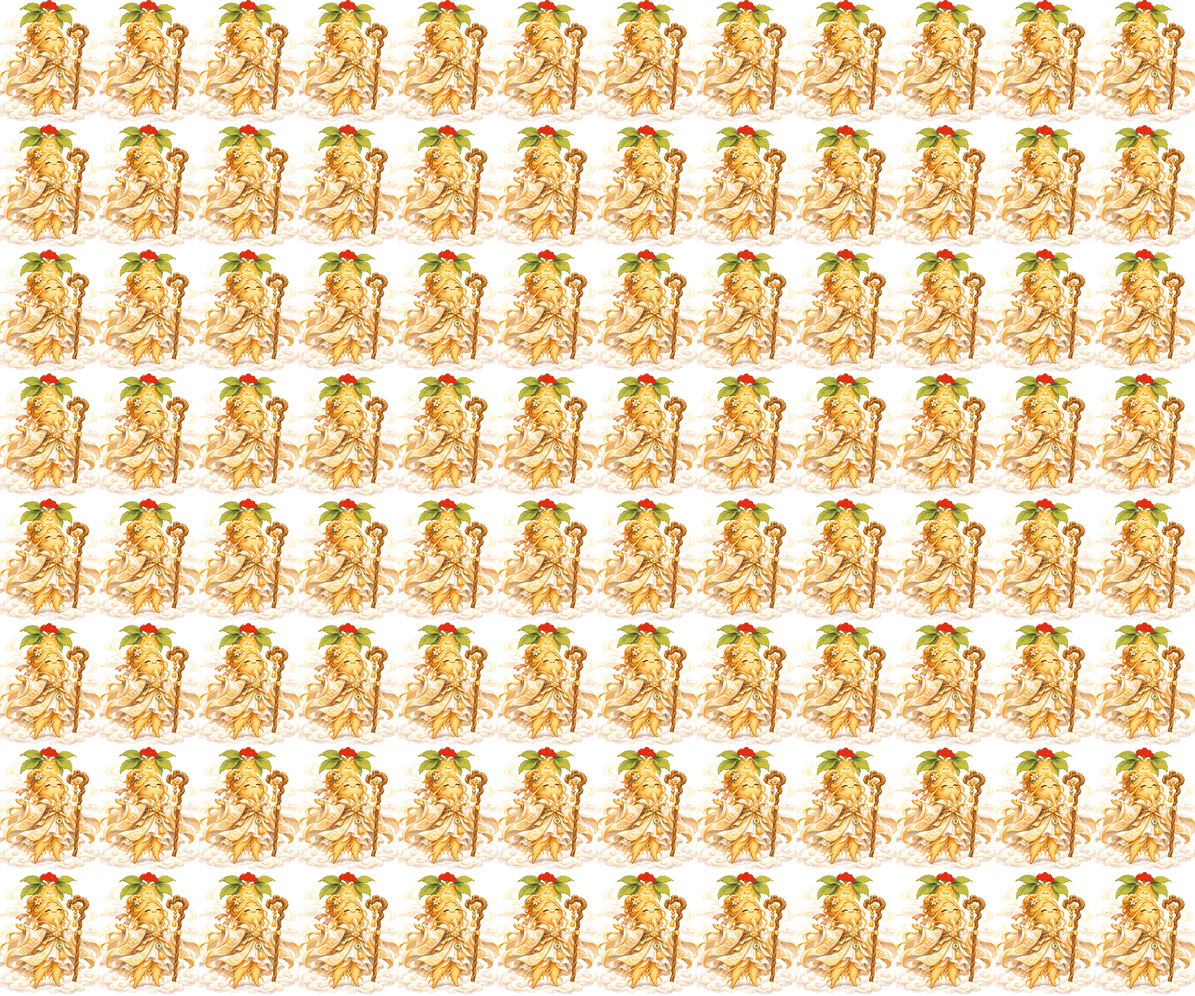
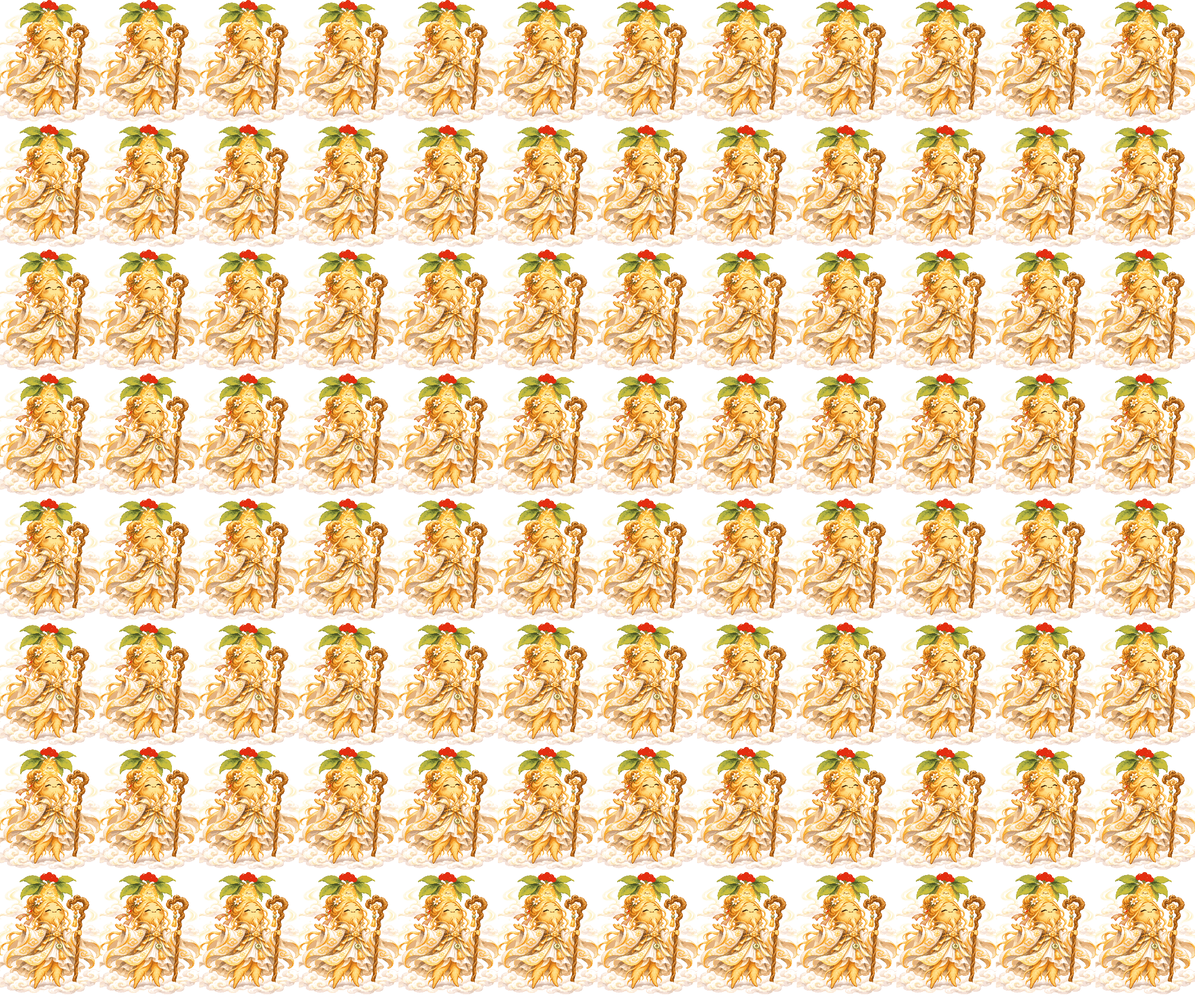
[立繪] 女生版九種風格；元嬰女袖子被切、化神女飄帶碎與月亮光圈改正：去背改用 BiRefNet 扣雲、化神女兩模型聯集再照顏色扣月亮 [skip ci]

diff --git a/.uiux/像素風立繪/造型風格/畫布原始檔/SeriesFemale.dc.html b/.uiux/像素風立繪/造型風格/畫布原始檔/SeriesFemale.dc.html
@@ -1,0 +1,90 @@
+<!doctype html>
+<html lang="zh-Hant-TW">
+<head>
+<meta charset="utf-8">
+<title>風格套七境界（女）</title>
+<script src="./support.js"></script>
+</head>
+<body>
+<x-dc>
+<helmet>
+<link rel="preconnect" href="https://fonts.googleapis.com">
+<link rel="stylesheet" href="https://fonts.googleapis.com/css2?family=Noto+Sans+TC:wght@400;500;700&amp;family=Noto+Serif+TC:wght@600;900&amp;display=swap">
+<style>
+body{margin:0}
+a{color:#A8322A}a:hover{color:#7E2219}
+</style>
+</helmet>
+<div style="width: 1600px; height: 2440px; box-sizing: border-box; padding: 56px 48px 40px; background: #F3EEE4; color: #2A2320; font-family: 'Noto Sans TC', sans-serif; display: flex; flex-direction: column; gap: 28px;">
+<div style="display: flex; flex-direction: column; gap: 10px;">
+<div style="font-size: 15px; font-weight: 500; letter-spacing: 0.12em; color: #A8322A;">一套造型＝七個境界・女生版</div>
+<h1 style="margin: 0; font-family: 'Noto Serif TC', serif; font-weight: 900; font-size: 48px; line-height: 1.15;">女生七張，同一支程式轉</h1>
+<p style="margin: 0; max-width: 900px; font-size: 17px; line-height: 1.7; color: #5C5047;">買一種風格，男女十四張一起換。圖是一倍大小，放大看格子比較準。</p>
+</div>
+
+<div style="display: flex; gap: 24px; align-items: flex-end;">
+<div style="width: 220px; flex-shrink: 0;"></div>
+<div style="display: grid; grid-template-columns: repeat(7, 168px); column-gap: 12px; font-size: 15px; font-weight: 700; color: #5C5047; text-align: center;">
+<div>煉氣</div><div>築基</div><div>金丹</div><div>元嬰</div><div>化神</div><div>大乘</div><div>渡劫</div>
+</div>
+</div>
+
+<div style="display: flex; flex-direction: column; gap: 28px;">
+
+<div style="display: flex; gap: 24px; align-items: center;">
+<div style="width: 220px; flex-shrink: 0; display: flex; flex-direction: column; gap: 6px;"><h2 style="margin: 0; font-family: 'Noto Serif TC', serif; font-size: 26px;">原版像素</h2><span style="font-size: 14px; color: #4F7A31; font-weight: 700;">免費</span></div>
+<img src="/_blob/facbfec6531b2a9ac92b5d42829023bb" alt="原版像素七境界女生" style="width: 1248px; height: 210px; image-rendering: pixelated; display: block;">
+</div>
+
+<div style="display: flex; gap: 24px; align-items: center;">
+<div style="width: 220px; flex-shrink: 0; display: flex; flex-direction: column; gap: 6px;"><h2 style="margin: 0; font-family: 'Noto Serif TC', serif; font-size: 26px;">水彩典藏</h2><span style="font-size: 14px; color: #5E544A;">靜態圖</span></div>
+<img src="/_blob/710068b06ce8cdb711e8dcb2e0a73fde" alt="水彩典藏七境界女生" style="width: 1248px; height: 210px; display: block;">
+</div>
+
+<div style="display: flex; gap: 24px; align-items: center;">
+<div style="width: 220px; flex-shrink: 0; display: flex; flex-direction: column; gap: 6px;"><h2 style="margin: 0; font-family: 'Noto Serif TC', serif; font-size: 26px;">水墨</h2><span style="font-size: 14px; color: #6E4A0E;">動畫要多一步</span></div>
+<img src="/_blob/e16d3afb34b2c99564fce17675d63986" alt="水墨七境界女生" style="width: 1248px; height: 210px; image-rendering: pixelated; display: block;">
+</div>
+
+<div style="display: flex; gap: 24px; align-items: center;">
+<div style="width: 220px; flex-shrink: 0; display: flex; flex-direction: column; gap: 6px;"><h2 style="margin: 0; font-family: 'Noto Serif TC', serif; font-size: 26px;">鎏金</h2><span style="font-size: 14px; color: #6E4A0E;">動畫要多一步</span></div>
+<img src="/_blob/aa09e4da6ae89ad198b40965e67a1992" alt="鎏金七境界女生" style="width: 1248px; height: 210px; image-rendering: pixelated; display: block;">
+</div>
+
+<div style="display: flex; gap: 24px; align-items: center;">
+<div style="width: 220px; flex-shrink: 0; display: flex; flex-direction: column; gap: 6px;"><h2 style="margin: 0; font-family: 'Noto Serif TC', serif; font-size: 26px;">月夜</h2><span style="font-size: 14px; color: #6E4A0E;">動畫要多一步</span></div>
+<img src="/_blob/5ab8946b02e88d4421eb35725456dcea" alt="月夜七境界女生" style="width: 1248px; height: 210px; image-rendering: pixelated; display: block;">
+</div>
+
+<div style="display: flex; gap: 24px; align-items: center;">
+<div style="width: 220px; flex-shrink: 0; display: flex; flex-direction: column; gap: 6px;"><h2 style="margin: 0; font-family: 'Noto Serif TC', serif; font-size: 26px;">皮影燈籠</h2><span style="font-size: 14px; color: #6E4A0E;">動畫要多一步</span></div>
+<img src="/_blob/d5c3b29ade6a24797a76395739a2b2a7" alt="皮影燈籠七境界女生" style="width: 1248px; height: 210px; image-rendering: pixelated; display: block;">
+</div>
+
+<div style="display: flex; gap: 24px; align-items: center;">
+<div style="width: 220px; flex-shrink: 0; display: flex; flex-direction: column; gap: 6px;"><h2 style="margin: 0; font-family: 'Noto Serif TC', serif; font-size: 26px;">掌機四色</h2><span style="font-size: 14px; color: #3D5A26;">動畫直接套</span></div>
+<img src="/_blob/26084e0e55e7fc64e38abcfc441d982f" alt="掌機四色七境界女生" style="width: 1248px; height: 210px; image-rendering: pixelated; display: block;">
+</div>
+
+<div style="display: flex; gap: 24px; align-items: center;">
+<div style="width: 220px; flex-shrink: 0; display: flex; flex-direction: column; gap: 6px;"><h2 style="margin: 0; font-family: 'Noto Serif TC', serif; font-size: 26px;">貼紙</h2><span style="font-size: 14px; color: #6E4A0E;">動畫要多一步</span></div>
+<img src="/_blob/a3f69156632052a0bcfbd77ec7564579" alt="貼紙七境界女生" style="width: 1248px; height: 210px; image-rendering: pixelated; display: block;">
+</div>
+
+<div style="display: flex; gap: 24px; align-items: center;">
+<div style="width: 220px; flex-shrink: 0; display: flex; flex-direction: column; gap: 6px;"><h2 style="margin: 0; font-family: 'Noto Serif TC', serif; font-size: 26px;">粗像素</h2><span style="font-size: 14px; color: #3D5A26;">動畫直接套</span></div>
+<img src="/_blob/3d66a5f95a251e0c4fa22fc321d5e62e" alt="粗像素七境界女生" style="width: 1248px; height: 210px; image-rendering: pixelated; display: block;">
+</div>
+
+</div>
+</div>
+</x-dc>
+<script type="text/x-dc" data-dc-script data-props='{"$preview":{"width":1600,"height":2440}}'>
+class Component extends DCLogic {
+renderVals() {
+return {};
+}
+}
+</script>
+</body>
+</html>

diff --git a/.uiux/像素風立繪/造型風格/畫布原始檔/AnimCompare.dc.html b/.uiux/像素風立繪/造型風格/畫布原始檔/AnimCompare.dc.html
@@ -24,8 +24,8 @@ a{color:#A8322A}a:hover{color:#7E2219}
 .o-gr0{background-image:url(/_blob/1bf69a2fabf7512d58ba5b2605be6385)}.n-gr0{background-image:url(/_blob/c92c189c0747427e64384d824184fc17)}
 .o-gr1{background-image:url(/_blob/e057cd71a86e8896bad058ded1ceab7c)}.n-gr1{background-image:url(/_blob/59a065d7a8a3bc6e9b60644c40c185a3)}
 .o-gr2{background-image:url(/_blob/d83f72ae57d34f8edf90d13cc1769574)}.n-gr2{background-image:url(/_blob/e5d46cab89bdc9fcfa3c691c87adfff3)}
-.o-gr3{background-image:url(/_blob/415945ea43069840ed386c83f03e6d71)}.n-gr3{background-image:url(/_blob/ffc064126babd3daeee44f1ed35225d8)}
-.o-gr4{background-image:url(/_blob/f16d50bd432d4c941052ff6cfff3cc71)}.n-gr4{background-image:url(/_blob/7f8d6497d2e64aaef4e968344484dfb4)}
+.o-gr3{background-image:url(/_blob/415945ea43069840ed386c83f03e6d71)}.n-gr3{background-image:url(/_blob/3cbe6731d72fc0513a062f0d45789605)}
+.o-gr4{background-image:url(/_blob/f16d50bd432d4c941052ff6cfff3cc71)}.n-gr4{background-image:url(/_blob/4920ee9814493ccaa9c54c0958fff19e)}
 .o-gr5{background-image:url(/_blob/e2fb611c58b5e80bc6d74c12505abaed)}.n-gr5{background-image:url(/_blob/e1a06d947acad2dbe6b44134feaf45c1)}
 .o-gr6{background-image:url(/_blob/d17bf4f6c73d090d06904d827bedc8c4)}.n-gr6{background-image:url(/_blob/3f8619f9a321ea58489b39bf5d7fce36)}
 </style>

diff --git a/.uiux/像素風立繪/造型風格/ai_matte.py b/.uiux/像素風立繪/造型風格/ai_matte.py
@@ -5,8 +5,8 @@ GrabCut 分不出白袍、淡金袍和後面的雲（多米 2026-11-18 抓到元
 
 兩個模型各有錯，逐張放大看過後照 CHOICE 挑：
 - birefnet-general：大多數最準；但金丹男手上的金丹會被切掉、化神女背後的月亮會被算進角色
-- isnet-general-use：渡劫男女被暴風雲騙（葉子、衣服切掉），但金丹、化神那幾張是對的
-- and：兩個都說是角色才算（元嬰女右邊的雲只有一邊會拿）
+- isnet-general-use：渡劫男女被暴風雲騙（葉子、衣服切掉），但金丹男、化神男是對的
+- moon：化神女專用，兩個聯集再照顏色扣掉月亮（見 moon_mask）
 
 用法：python ai_matte.py <水彩原圖資料夾> <輸出資料夾> [代號,代號…]
 輸出：{代號}_168x210_aimask.png（白＝角色）
@@ -21,9 +21,12 @@ from scipy import ndimage
 GW, GH = 168, 210
 ALPHA_KEEP = 0.5  # 縮小後一格裡超過一半是角色才算角色
 BIREF, ISNET = "birefnet-general", "isnet-general-use"
-CHOICE = {"r2": ISNET, "r4": ISNET, "gr4": ISNET, "gr3": "and"}  # 沒列的用 BIREF
-# 兩個模型都拿進來的背景碎片，逐張看過指定位置（x0, y0, x1, y1，168×210 格）：元嬰女右緣那一條雲
-DROP_BOX = {"gr3": [(140, 110, 168, 136)]}
+CHOICE = {"r2": ISNET, "r4": ISNET, "gr4": "moon"}  # 沒列的用 BIREF
+# 模型多拿進來的背景，逐張看過指定位置（x0, y0, x1, y1，168×210 格）：
+# 元嬰女法杖右上的兩團雲（原本用兩模型交集去掉，結果連袖子一起扣掉，多米 2026-11-18 抓到）
+# 法杖頭右半到 x 149、y 78，框不能碰到，分兩塊框雲
+DROP_BOX = {"gr3": [(150, 58, 168, 92), (143, 80, 168, 110), (138, 88, 143, 100)]}  # 右、下邊界不含
+PIXEL_DIR = Path(__file__).resolve().parent.parent / "統一色盤"
 MIN_PIECE = 8  # 比這小的離群碎點當灰塵；金丹（約 110 格）、飄帶末端（17 格）都比它大
 
 src_dir, out_dir = Path(sys.argv[1]), Path(sys.argv[2])
@@ -51,14 +54,34 @@ def small_mask(im, model):
     return small >= ALPHA_KEEP
 
 
+def moon_mask(im, code):
+    """化神女：isnet 把半透明飄帶切成細條，BiRefNet 飄帶完整但把背後的月亮也拿進來。
+    兩個取聯集，再照像素圖的顏色扣掉月亮：深藍的月面（上半段），和葉子周圍淡紫到白的月亮外光（頭部以外的上段）。"""
+    mask = small_mask(im, BIREF) | small_mask(im, ISNET)
+    px = np.asarray(Image.open(PIXEL_DIR / f"{code}_168x210.png").convert("RGB")).astype(np.float32)
+    r, g, b = px[..., 0], px[..., 1], px[..., 2]
+    lum = 0.299 * r + 0.587 * g + 0.114 * b
+    ys, xs = np.mgrid[0:GH, 0:GW]
+    moon_face = (b - r > 45) & (lum < 175) & (ys < 112)
+    moon_glow = (((b > g + 8) & (b >= r - 5)) | (px.min(-1) > 240)) & (ys < 48)
+    head = (xs >= 55) & (xs <= 100) & (ys >= 25)      # 頭上的花、髮飾也是白和淡紫，留著
+    mask &= ~moon_face & ~(moon_glow & ~head)
+    labels, n = ndimage.label(mask, structure=np.ones((3, 3)))
+    sizes = ndimage.sum(mask, labels, range(1, n + 1))
+    return mask & np.isin(labels, [i + 1 for i, s in enumerate(sizes) if s >= MOON_MIN_PIECE])
+
+
+MOON_MIN_PIECE = 30  # 扣掉月亮外光後留下的零星碎點
+
+
 for code in codes:
     found = [src_dir / f"{code}{ext}" for ext in (".webp", ".png") if (src_dir / f"{code}{ext}").exists()]
     if not found:
         raise FileNotFoundError(src_dir / code)
     im = crop45(Image.open(found[0]).convert("RGB"))
     choice = CHOICE.get(code, BIREF)
-    if choice == "and":
-        mask = small_mask(im, BIREF) & small_mask(im, ISNET)
+    if choice == "moon":
+        mask = moon_mask(im, code)
     else:
         mask = small_mask(im, choice)
     for x0, y0, x1, y1 in DROP_BOX.get(code, []):

diff --git a/.uiux/像素風立繪/造型風格/make_styles.py b/.uiux/像素風立繪/造型風格/make_styles.py
@@ -133,7 +133,10 @@ STYLES = {
 
 
 def watercolor(code, size=(168, 210)):
-    im = Image.open(WATER / f"{code}.webp").convert("RGB")
+    found = [WATER / f"{code}{ext}" for ext in (".webp", ".png") if (WATER / f"{code}{ext}").exists()]
+    if not found:
+        raise FileNotFoundError(WATER / code)
+    im = Image.open(found[0]).convert("RGB")      # 男生原圖是 webp、女生是 png
     w, h = im.size
     tw = int(h * 4 / 5)
     if tw <= w:
@@ -149,27 +152,29 @@ def save(arr, path):
     Image.fromarray(np.clip(arr, 0, 255).astype(np.uint8)).save(path)
 
 
-# 一、金丹男九種
-rgb, mask = load("r2")
-save(rgb, OUT / "r2_original.png")
-for name, fn in STYLES.items():
-    save(fn(rgb, mask), OUT / f"r2_{name}.png")
-watercolor("r2", (336, 420)).save(OUT / "r2_watercolor.png")
+# 一、金丹男、金丹女各九種
+for code in ("r2", "gr2"):
+    rgb, mask = load(code)
+    save(rgb, OUT / f"{code}_original.png")
+    for name, fn in STYLES.items():
+        save(fn(rgb, mask), OUT / f"{code}_{name}.png")
+    watercolor(code, (336, 420)).save(OUT / f"{code}_watercolor.png")
 
-# 二、每種風格七境界一排（男），1 倍、間隔 12
+# 二、每種風格七境界一排，男 sheet_{風格}.png、女 sheet_{風格}_f.png，1 倍、間隔 12
 GAP = 12
-codes = [f"r{i}" for i in range(7)]
-for name in ["original", "watercolor", *STYLES]:
-    sheet = Image.new("RGBA", (168 * 7 + GAP * 6, 210), (0, 0, 0, 0))
-    for i, c in enumerate(codes):
-        if name == "watercolor":
-            tile = watercolor(c)
-        else:
-            rgb, mask = load(c)
-            arr = rgb if name == "original" else STYLES[name](rgb, mask)
-            tile = Image.fromarray(np.clip(arr, 0, 255).astype(np.uint8))
-        sheet.paste(tile, (i * (168 + GAP), 0))
-    sheet.save(OUT / f"sheet_{name}.png")
+for prefix, suffix in (("r", ""), ("gr", "_f")):
+    codes = [f"{prefix}{i}" for i in range(7)]
+    for name in ["original", "watercolor", *STYLES]:
+        sheet = Image.new("RGBA", (168 * 7 + GAP * 6, 210), (0, 0, 0, 0))
+        for i, c in enumerate(codes):
+            if name == "watercolor":
+                tile = watercolor(c)
+            else:
+                rgb, mask = load(c)
+                arr = rgb if name == "original" else STYLES[name](rgb, mask)
+                tile = Image.fromarray(np.clip(arr, 0, 255).astype(np.uint8))
+            sheet.paste(tile, (i * (168 + GAP), 0))
+        sheet.save(OUT / f"sheet_{name}{suffix}.png")
 
 # 三、動畫相容性檢查：鎏金套在動畫格子圖上（換色系風格整張套即可）
 anim = Image.open(SRC / "r2_anim96.png").convert("RGB")
